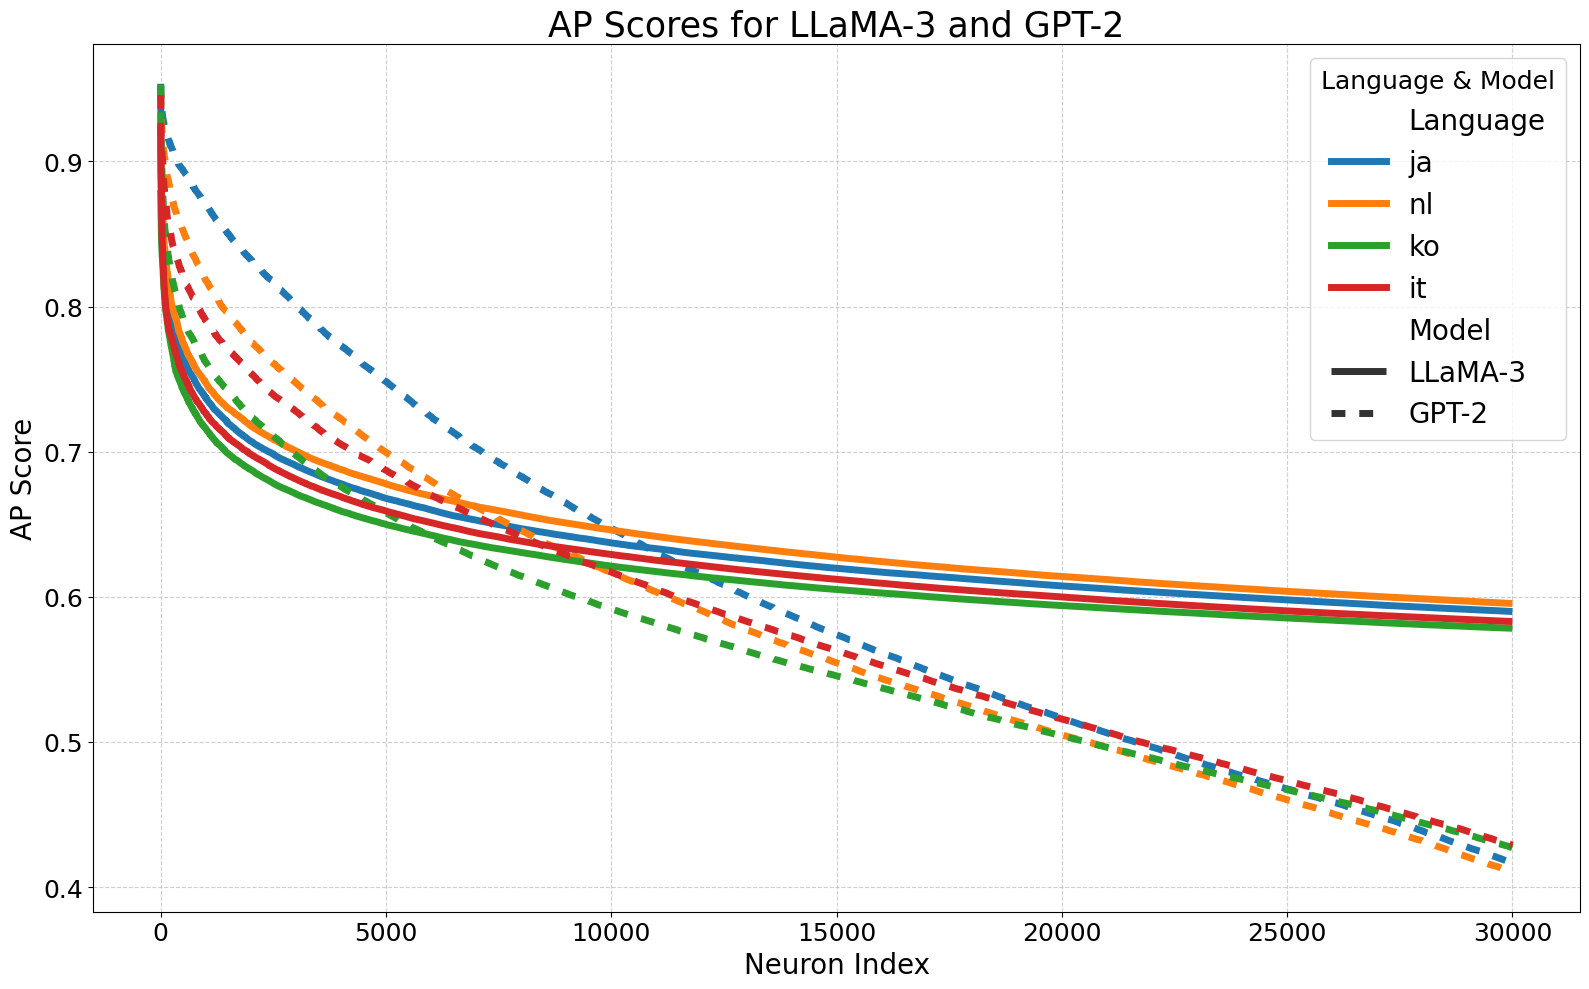
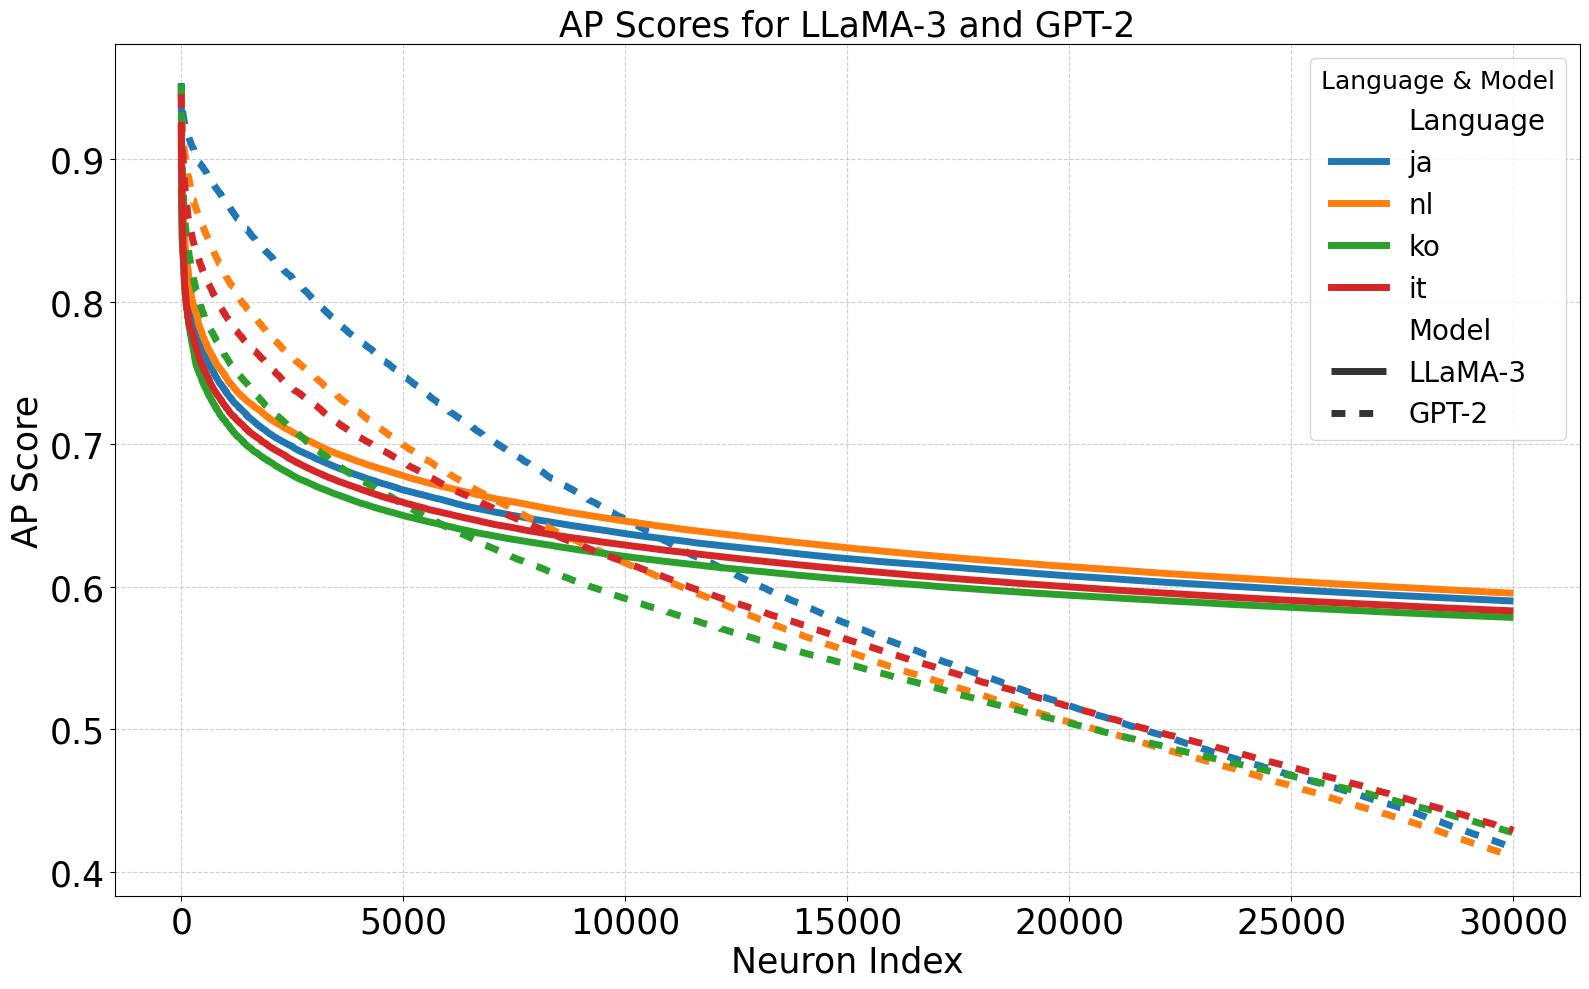
update/image

diff --git a/activated_neuron/new_neurons/intervention/hidden_state_sim/AUC/line_plot_experts.py b/activated_neuron/new_neurons/intervention/hidden_state_sim/AUC/line_plot_experts.py
@@ -81,11 +81,11 @@ sns.lineplot(
 )
 
 # グラフの装飾
-plt.xlabel("Neuron Index", fontsize=20)
-plt.ylabel("AP Score", fontsize=20)
+plt.xlabel("Neuron Index", fontsize=25)
+plt.ylabel("AP Score", fontsize=25)
 plt.title("AP Scores for LLaMA-3 and GPT-2", fontsize=25)
-plt.tick_params(axis='x', labelsize=18)
-plt.tick_params(axis='y', labelsize=18)
+plt.tick_params(axis='x', labelsize=25)
+plt.tick_params(axis='y', labelsize=25)
 plt.legend(title=f"Language & Model", fontsize=20, title_fontsize=18)
 plt.grid(True, linestyle="--", alpha=0.6)
 
